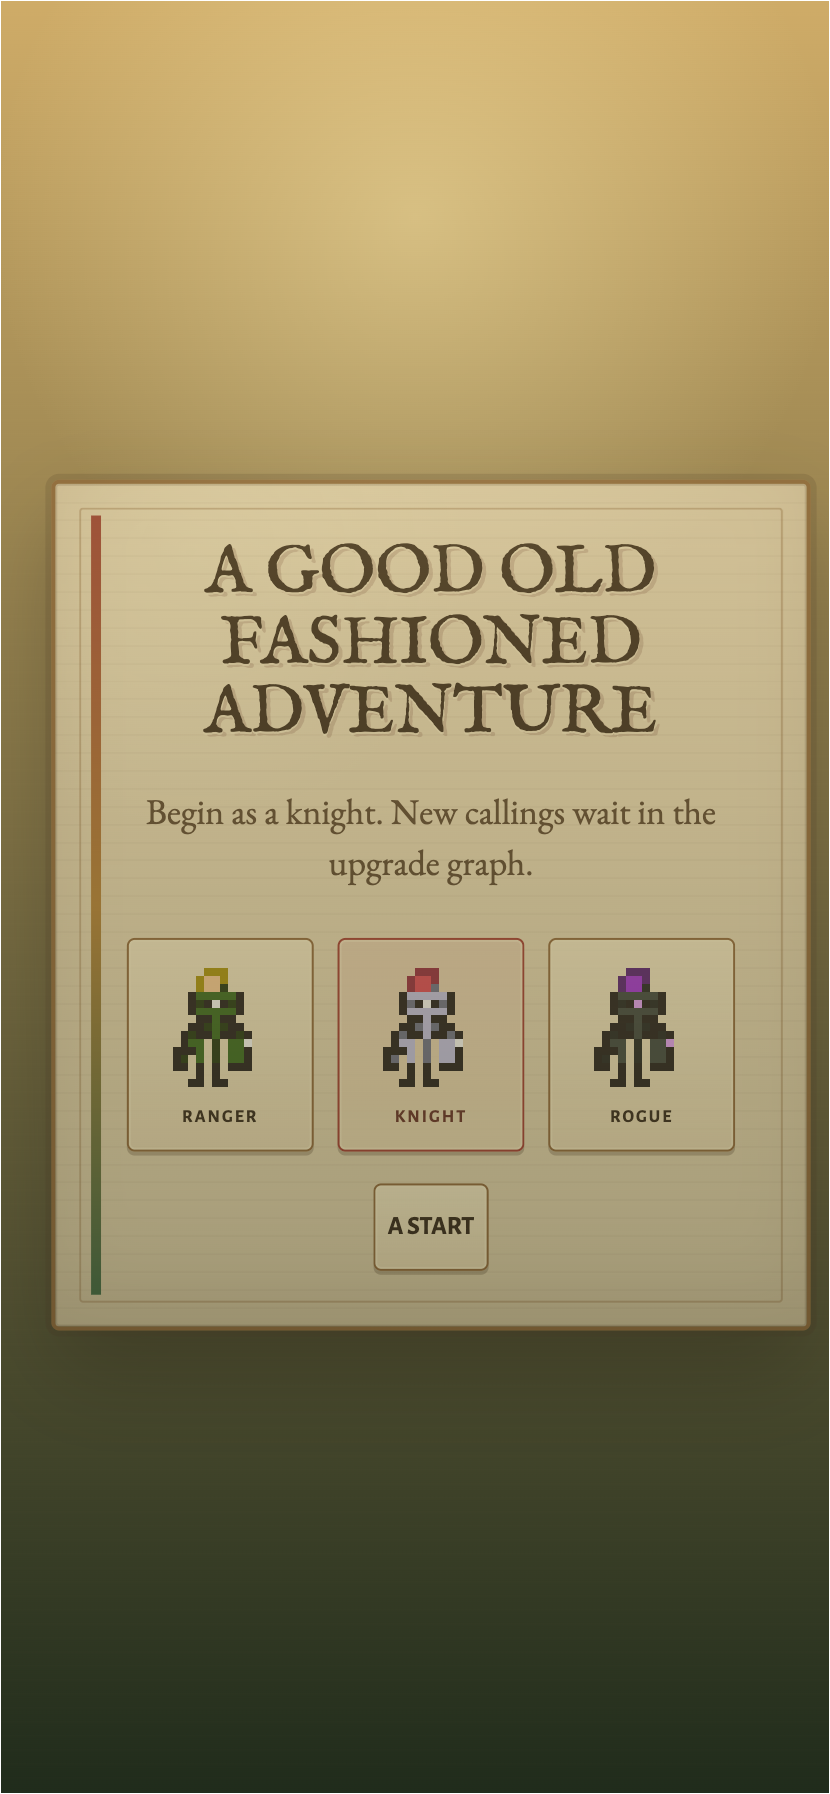
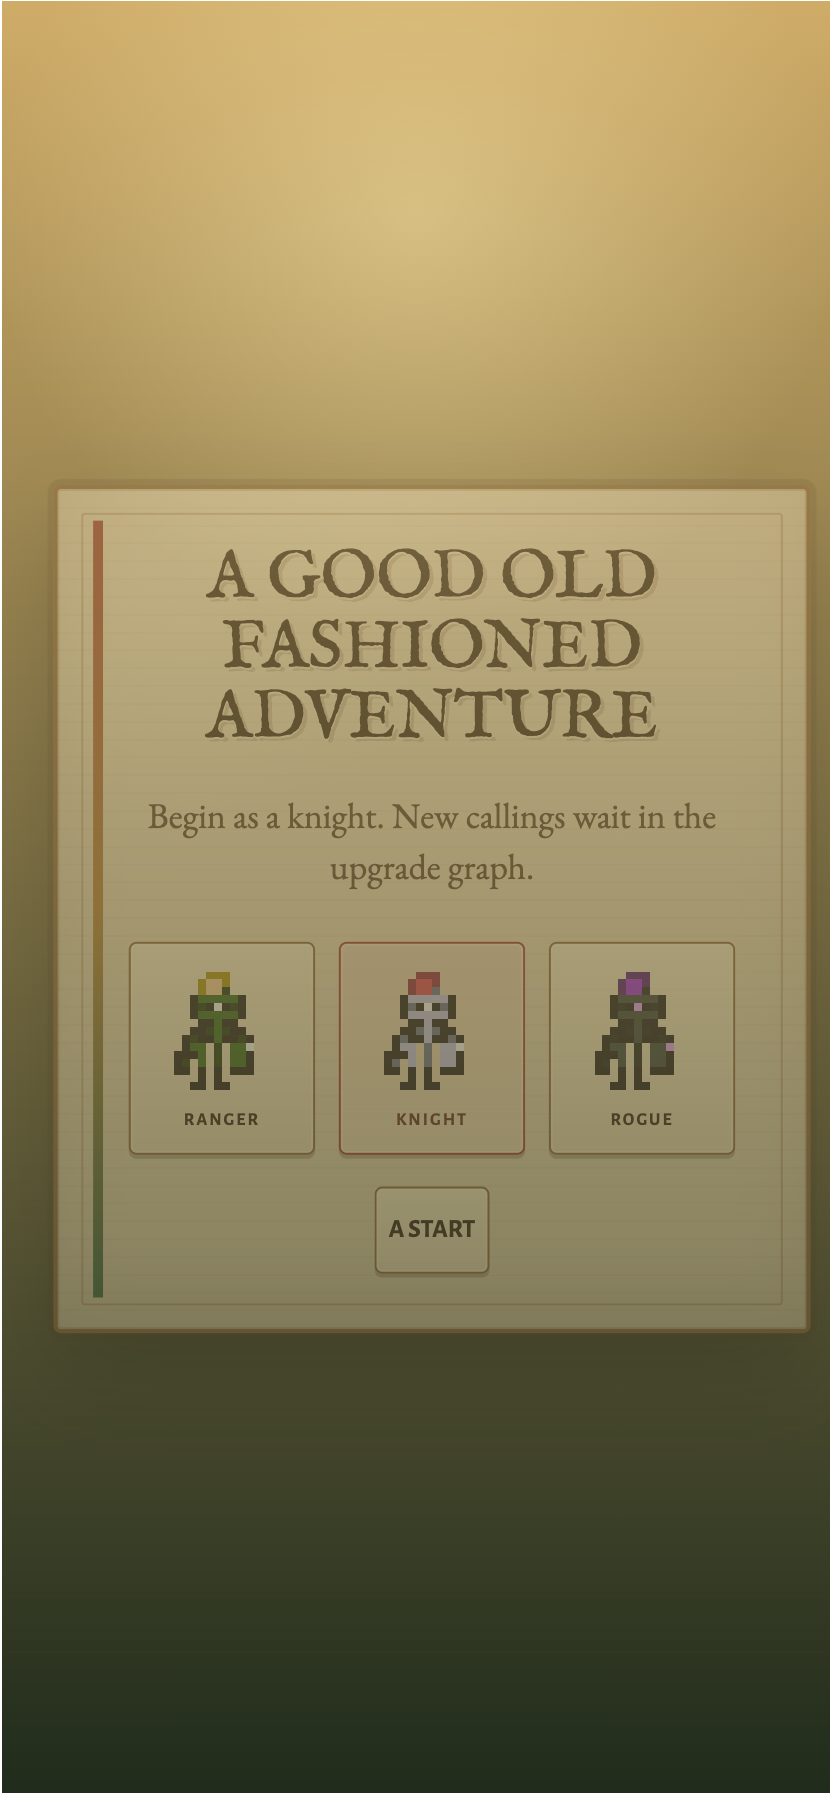
fix: fold S13 review findings forward
Comprehensive review caught two latent placement bugs: when ranks wrap
past the host count, two reinforcements searched identical offsets from
the same host and stacked silently (tile collision can't see entities);
and a fully walled host fell back to the host's own tile, stacking on
it. Placement now tracks an occupied-position set seeded with every
host and claims one spot per reinforcement, skipping when a host has no
free spot. New gates: a forced host-wrap (6 ranks vs 4 hosts) asserts
pairwise-distinct positions, and a no-family map asserts the quiet
no-op. Simplifier fold: reinforcement bounty merges into the spawned
trait instead of rewriting it, familyArchetypeIds moves to a shared
harness helper, and the wait() helper is deduped out of sixteen browser
test files into tests/harness/wait.ts. Security pass: clean.

Resolves: S13.R milestone review

Changed region(s): [[0.0602, 0.0, 1.0, 0.9989]]

diff --git a/tests/unit/warband-ranks.test.ts b/tests/unit/warband-ranks.test.ts
@@ -4,6 +4,7 @@ import { collides } from "../../src/sim/collision";
 import { createGameWorld, instantiateMap } from "../../src/sim/factories";
 import { applyIncrementalEventReward } from "../../src/sim/incrementalProgress";
 import { IncrementalProgress, IsEnemy, Transform } from "../../src/sim/traits";
+import { familyArchetypeIds } from "../harness/families";
 
 const warbandNode = incremental.upgradeGraph.nodes.find(
   (node) => node.id === "upgrade:orc-warband",
@@ -12,14 +13,10 @@ if (!warbandNode?.enemyFamily || !warbandNode.spawnBounty) {
   throw new Error("warband node misconfigured");
 }
 const warband = warbandNode;
-const family = warband.enemyFamily;
+const family = warbandNode.enemyFamily;
 
 function familyArchetypes(): Set<string> {
-  return new Set(
-    Object.entries(enemies.archetypes)
-      .filter(([, archetype]) => archetype.family === family)
-      .map(([id]) => id),
-  );
+  return new Set(familyArchetypeIds(family));
 }
 
 function bootWithRanks(ranks: number, seed = 7) {
@@ -93,5 +90,29 @@ describe("S13.1 warband ranks reinforce the field", () => {
     for (const e of [...world.query(IsEnemy)]) {
       expect(e.get(IsEnemy)?.bounty ?? 0).toBe(0);
     }
+  });
+
+  it("never stacks entities, even when ranks wrap past the host count", () => {
+    // 6 ranks against 4 authored orc hosts forces the i % hosts wrap —
+    // every reinforcement must still claim its own spot, distinct from
+    // every host and every peer
+    const world = bootWithRanks(6);
+    const ids = familyArchetypes();
+    const positions = [...world.query(IsEnemy, Transform)]
+      .filter((e) => ids.has(e.get(IsEnemy)?.archetypeId ?? ""))
+      .map((e) => {
+        const t = e.get(Transform);
+        return `${t?.x},${t?.y}`;
+      });
+    expect(new Set(positions).size).toBe(positions.length);
+  });
+
+  it("is a quiet no-op on maps that field none of the family", () => {
+    const world = createGameWorld(11);
+    const progress = world.get(IncrementalProgress);
+    if (!progress) throw new Error("no incremental progress");
+    world.set(IncrementalProgress, { ...progress, upgradeRanks: { [warband.id]: 1 } });
+    instantiateMap(world, "map:castle-dungeon", { classId: "knight" });
+    expect(familyCount(world)).toBe(0);
   });
 });

diff --git a/src/sim/factories.ts b/src/sim/factories.ts
@@ -327,6 +327,12 @@ function spawnWarbandReinforcements(
   familyHosts: Map<string, { archetypeId: string; x: number; y: number }[]>,
 ): void {
   const ranks = world.get(IncrementalProgress)?.upgradeRanks ?? {};
+  // tile collision can't see entities: track every taken spot so wrapped
+  // ranks (more reinforcements than hosts) never stack on a host or peer
+  const occupied = new Set<string>();
+  for (const hosts of familyHosts.values()) {
+    for (const host of hosts) occupied.add(`${host.x},${host.y}`);
+  }
   for (const node of incremental.upgradeGraph.nodes) {
     // only bounty-carrying count ranks reinforce; rose majors use
     // enemyFamily as taxonomy (dragon-wake must not clone the boss)
@@ -339,13 +345,13 @@ function spawnWarbandReinforcements(
       const hitbox = enemies.archetypes[host.archetypeId].hitbox;
       const placed = REINFORCEMENT_OFFSETS.map(
         ([dx, dy]) => [host.x + dx, host.y + dy] as const,
-      ).find(([x, y]) => !collides(world, x, y, hitbox.w, hitbox.h));
-      const [x, y] = placed ?? [host.x, host.y];
-      const reinforcement = spawnEnemy(world, host.archetypeId, x, y);
-      reinforcement.set(IsEnemy, {
-        archetypeId: host.archetypeId,
-        bounty: node.spawnBounty ?? 0,
-      });
+      ).find(([x, y]) => !occupied.has(`${x},${y}`) && !collides(world, x, y, hitbox.w, hitbox.h));
+      // a fully walled host yields no spot: skip rather than stack entities
+      if (!placed) continue;
+      occupied.add(`${placed[0]},${placed[1]}`);
+      const reinforcement = spawnEnemy(world, host.archetypeId, placed[0], placed[1]);
+      const tag = reinforcement.get(IsEnemy);
+      if (tag) reinforcement.set(IsEnemy, { ...tag, bounty: node.spawnBounty });
     }
   }
 }

diff --git a/tests/harness/families.ts b/tests/harness/families.ts
@@ -1,0 +1,8 @@
+import { enemies } from "../../src/lib/config";
+
+/** Archetype ids tagged with a warband family (enemies.json `family`). */
+export function familyArchetypeIds(family: string): string[] {
+  return Object.entries(enemies.archetypes)
+    .filter(([, archetype]) => archetype.family === family)
+    .map(([id]) => id);
+}

diff --git a/tests/unit/balance-budget.test.ts b/tests/unit/balance-budget.test.ts
@@ -2,6 +2,7 @@ import { describe, expect, it } from "vitest";
 import { enemies, incremental } from "../../src/lib/config";
 import { getMap } from "../../src/lib/content/registry";
 import { nodeRanks, rankCost } from "../../src/sim/incrementalProgress";
+import { familyArchetypeIds } from "../harness/families";
 
 const { nodes, root } = incremental.upgradeGraph;
 
@@ -116,9 +117,7 @@ describe("S13.2 adversarial warband trade", () => {
     expect(warbands.length).toBeGreaterThan(0);
     const startMap = getMap(incremental.loop.startMap);
     for (const node of familyNodes) {
-      const tagged = Object.entries(enemies.archetypes)
-        .filter(([, archetype]) => archetype.family === node.enemyFamily)
-        .map(([id]) => id);
+      const tagged = familyArchetypeIds(node.enemyFamily ?? "");
       expect(tagged.length, `${node.id} family ${node.enemyFamily} tags nothing`).toBeGreaterThan(
         0,
       );

diff --git a/tests/browser/landing.test.tsx b/tests/browser/landing.test.tsx
@@ -4,6 +4,7 @@ import { afterEach, expect, it } from "vitest";
 import { page, userEvent } from "vitest/browser";
 import { App } from "../../src/app/App";
 import { MemorySaveRepository } from "../../src/persistence/saveRepository";
+import { wait } from "../harness/wait";
 
 let container: HTMLDivElement | undefined;
 let root: Root | undefined;
@@ -34,8 +35,6 @@ function mountApp(repository = new MemorySaveRepository()) {
     </StrictMode>,
   );
 }
-
-const wait = (ms: number) => new Promise((resolve) => setTimeout(resolve, ms));
 
 it("opens on an errant storybook landing page before class select", async () => {
   mountApp();

diff --git a/tests/browser/menu.test.tsx b/tests/browser/menu.test.tsx
@@ -4,6 +4,7 @@ import { afterEach, expect, it } from "vitest";
 import { page, userEvent } from "vitest/browser";
 import { App } from "../../src/app/App";
 import { MemorySaveRepository } from "../../src/persistence/saveRepository";
+import { wait } from "../harness/wait";
 
 let container: HTMLDivElement | undefined;
 let root: Root | undefined;
@@ -34,8 +35,6 @@ function mountApp() {
     </StrictMode>,
   );
 }
-
-const wait = (ms: number) => new Promise((resolve) => setTimeout(resolve, ms));
 
 function shell() {
   const el = page.getByTestId("game-shell").element() as HTMLElement;

diff --git a/tests/browser/playthrough.test.tsx b/tests/browser/playthrough.test.tsx
@@ -4,6 +4,7 @@ import { afterEach, expect, it } from "vitest";
 import { page, userEvent } from "vitest/browser";
 import { App } from "../../src/app/App";
 import { MemorySaveRepository } from "../../src/persistence/saveRepository";
+import { wait } from "../harness/wait";
 
 let container: HTMLDivElement | undefined;
 let root: Root | undefined;
@@ -67,8 +68,6 @@ function textOf(testId: string) {
       .trim() ?? ""
   );
 }
-
-const wait = (ms: number) => new Promise((resolve) => setTimeout(resolve, ms));
 
 async function pressA(input = userEvent.setup()) {
   await input.keyboard("j");

diff --git a/tests/browser/castle-approach-composition.test.tsx b/tests/browser/castle-approach-composition.test.tsx
@@ -5,11 +5,11 @@ import { page } from "vitest/browser";
 import { App } from "../../src/app/App";
 import { MemorySaveRepository } from "../../src/persistence/saveRepository";
 import { PlayerGovernor } from "../harness/playerGovernor";
+import { wait } from "../harness/wait";
 
 let container: HTMLDivElement | undefined;
 let root: Root | undefined;
 let originalBodyStyle = "";
-const wait = (ms: number) => new Promise((resolve) => setTimeout(resolve, ms));
 
 afterEach(() => {
   root?.unmount();

diff --git a/tests/browser/composition-budget-tuning.test.tsx b/tests/browser/composition-budget-tuning.test.tsx
@@ -5,11 +5,11 @@ import { page } from "vitest/browser";
 import { App } from "../../src/app/App";
 import { MemorySaveRepository } from "../../src/persistence/saveRepository";
 import { PlayerGovernor } from "../harness/playerGovernor";
+import { wait } from "../harness/wait";
 
 let container: HTMLDivElement | undefined;
 let root: Root | undefined;
 let originalBodyStyle = "";
-const wait = (ms: number) => new Promise((resolve) => setTimeout(resolve, ms));
 
 afterEach(() => {
   root?.unmount();

diff --git a/tests/browser/deep-forest-density.test.tsx b/tests/browser/deep-forest-density.test.tsx
@@ -5,11 +5,11 @@ import { page } from "vitest/browser";
 import { App } from "../../src/app/App";
 import { MemorySaveRepository } from "../../src/persistence/saveRepository";
 import { PlayerGovernor } from "../harness/playerGovernor";
+import { wait } from "../harness/wait";
 
 let container: HTMLDivElement | undefined;
 let root: Root | undefined;
 let originalBodyStyle = "";
-const wait = (ms: number) => new Promise((resolve) => setTimeout(resolve, ms));
 
 afterEach(() => {
   root?.unmount();

diff --git a/tests/browser/map-evidence.test.tsx b/tests/browser/map-evidence.test.tsx
@@ -5,11 +5,11 @@ import { page } from "vitest/browser";
 import { App } from "../../src/app/App";
 import { maps } from "../../src/lib/content/registry";
 import { MemorySaveRepository } from "../../src/persistence/saveRepository";
+import { wait } from "../harness/wait";
 
 let container: HTMLDivElement | undefined;
 let root: Root | undefined;
 let originalBodyStyle = "";
-const wait = (ms: number) => new Promise((resolve) => setTimeout(resolve, ms));
 
 afterEach(() => {
   root?.unmount();

diff --git a/tests/browser/rescue-run.test.tsx b/tests/browser/rescue-run.test.tsx
@@ -5,11 +5,11 @@ import { page } from "vitest/browser";
 import { App } from "../../src/app/App";
 import { MemorySaveRepository } from "../../src/persistence/saveRepository";
 import { PlayerGovernor } from "../harness/playerGovernor";
+import { wait } from "../harness/wait";
 
 let container: HTMLDivElement | undefined;
 let root: Root | undefined;
 let originalBodyStyle = "";
-const wait = (ms: number) => new Promise((resolve) => setTimeout(resolve, ms));
 
 afterEach(() => {
   root?.unmount();